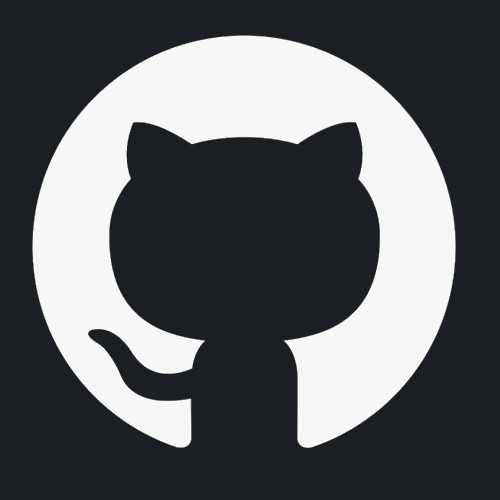
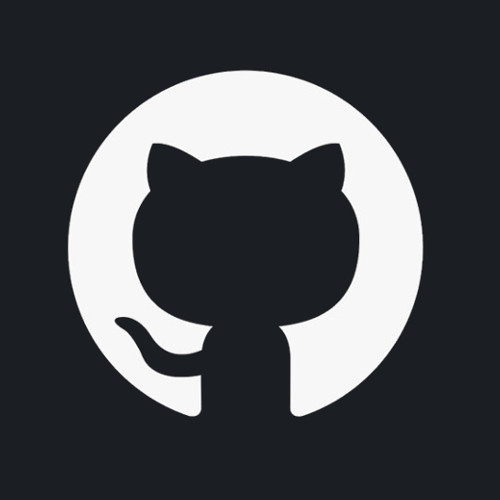
added contactCube interactivity

Changed region(s): [[0.06, 0.06, 0.93, 0.9]]

diff --git a/3d.js b/3d.js
@@ -13,7 +13,7 @@ var h = window.innerHeight;
 //---CAMERA---
 const scene = new THREE.Scene();
 const camera = new THREE.PerspectiveCamera(
-	40, //Field of View
+	30, //Field of View
 	(w)/ (h), //Aspect Ratio
 	0.1,  //Inner Frustum
 	1000 //Outter Frustum
@@ -24,10 +24,12 @@ const camera = new THREE.PerspectiveCamera(
 const renderer = new THREE.WebGLRenderer();
 renderer.setSize(w, h);
 container.appendChild( renderer.domElement );
-camera.position.z = 15;
+camera.position.z = 20;
 
+/*
 var controls = new OrbitControls(camera, renderer.domElement);	
 controls.update();
+*/
 
 var light = new THREE.AmbientLight( 0xDDDDDD );
 scene.add(light)
@@ -37,13 +39,14 @@ scene.add(light)
 /*--------ASYNCRONOUS EXTERNAL LOADING --------*/
 
 async function externalLoads(){
-   await loadTextures();
    await loadHDRI();
+   await loadTextures();
    await loadModels();
 }
 
 //----LOAD TEXTURES----
-var liImgC, ghImgC, asImgC, igImgC, metalRoughness, robotC, robotR;
+var liImgC, liImg, ghImgC, ghImg, asImgC, asImg, igImgC, igImg, metalRoughness, 
+   robotC, robotR;
 function loadTextures(){
    const textureLoader = new THREE.TextureLoader();
    robotC = textureLoader.load("./models/robot2.png");
@@ -52,12 +55,20 @@ function loadTextures(){
    robotR.flipY = false;
    liImgC = textureLoader.load("./models/linkedinc.jpg");
    liImgC.flipY = false;
+   liImg = textureLoader.load("./models/linkedin.jpg");
+   liImg.flipY = false;
 	ghImgC = textureLoader.load("./models/githubc.jpg");
    ghImgC.flipY = false;
+   ghImg = textureLoader.load("./models/github.jpg");
+   ghImg.flipY = false;
    asImgC = textureLoader.load("./models/artstationc.jpg");
    asImgC.flipY = false;
+   asImg = textureLoader.load("./models/artstation.jpg");
+   asImg.flipY = false;
 	igImgC = textureLoader.load("./models/intagramc.jpg");
    igImgC.flipY = false;
+   igImg = textureLoader.load("./models/instagram.jpg");
+   igImg.flipY = false;
    metalRoughness = textureLoader.load("./models/roughnessMetal.jpg");
 }
 
@@ -132,11 +143,12 @@ function loadModels(){
          })
          cube.material = cubeMat;
          cube.scale.set(size, size, size);
-         const z = cube.position.z;
-         const y = -4.2;
+         const z = cube.position.z = 1;
+         const y = -4;
 
          //attributes for each cube
          cubeLi = cube.clone();
+         cubeLi.name = "cubeLi"
          cubeLi.material = cubeMat.clone()
          cubeLi.material.map = liImgC;
          console.log(cubeLi.material)
@@ -144,18 +156,21 @@ function loadModels(){
          scene.add(cubeLi)
          
          cubeGh = cube.clone();
+         cubeGh.name = "cubeGh"
          cubeGh.material = cubeMat.clone()
          cubeGh.material.map = ghImgC;
          cubeGh.position.set(-.65 - ((w-300)/2000), y , z)
          scene.add(cubeGh)
          
          cubeAs = cube.clone();
+         cubeAs.name = "cubeAs"
          cubeAs.material = cubeMat.clone()
          cubeAs.material.map = asImgC;
          cubeAs.position.set(.65 + ((w-300)/2000), y , z)
          scene.add(cubeAs)
          
          cubeIg = cube.clone()
+         cubeIg.name = "cubeIg"
          cubeIg.material = cubeMat.clone()
          cubeIg.material.map = igImgC;
          cubeIg.position.set(2 + ((w-300)/800), y , z)
@@ -163,16 +178,18 @@ function loadModels(){
          
          cubesLoaded = true;
       });
-
-   //plane
+   
+   //
+   
    new GLTFLoader()
       .load("./models/plane.glb",
       function ( gltf ) {
          plane = gltf.scene.children[0]
+         plane.position.y += 2.5;
          scene.add(plane)
          planeLoaded = true;
       });
-
+     
    //background
    new GLTFLoader()
       .load("./models/scene.glb",
@@ -184,13 +201,49 @@ externalLoads();
 
 /*-------- EVENTS AND INTERACTIONS --------*/
 
-//-----track mouse from center
+//---track mouse from center and normalized---
 var mouseX = 0;
 var mouseY = 0;
+var mouseNormal = new THREE.Vector2();
 container.addEventListener("mousemove", function(e){
    mouseX = (e.clientX - (w/2)) / w;
    mouseY = (e.clientY - (h/2)) / h;
+   mouseNormal.x = ( e.clientX / w ) * 2 - 1;
+   mouseNormal.y = - ( e.clientY / h ) * 2 + 1;
 })
+
+//---raycasting for selection---
+var ray = new THREE.Raycaster();
+var highlighted = false;
+
+//---highlightAction---
+function highlightAction(obj, img, inverted, link){
+   if(!highlighted){
+      obj.material.map = img;
+      highlighted = true;
+      document.body.style.cursor = "pointer";
+   }
+   if(inverted){
+      obj.rotation.y += 0.025;  
+   }else{
+      obj.rotation.y -= 0.025;  
+   } 
+}
+
+function resethighlight(){
+   if(highlighted){
+      cubeLi.material.map = liImgC;
+      cubeGh.material.map = ghImgC;
+      cubeAs.material.map = asImgC;
+      cubeIg.material.map = igImgC;
+      cubeLi.rotation.y = 0;
+      cubeGh.rotation.y = 0;
+      cubeAs.rotation.y = 0;
+      cubeIg.rotation.y = 0;
+      document.body.style.cursor = "default";
+      highlighted = false;
+   }  
+}
 
 
 
@@ -210,6 +263,35 @@ function animate(){
          plane.position.z = 0
       }  
    }
+   //raycaster
+   ray.setFromCamera( mouseNormal, camera);
+   var intersect = ray.intersectObject(scene);
+   if (intersect.length > 0) {
+      var obj = intersect[0].object
+      switch(obj.name){
+         case "Plane":
+            resethighlight()
+            break;
+         case "Plane006":
+            resethighlight();
+            break;
+         case "cubeLi":
+            highlightAction(obj, liImg, true)
+            break;
+         case "cubeGh":
+            highlightAction(obj, ghImg, true)
+            break;
+         case "cubeAs":
+            highlightAction(obj, asImg, false)
+            break;
+         case "cubeIg":
+            highlightAction(obj, igImg, false)
+            break;
+
+      }
+   }
+   //console.log(intersect);
+
    requestAnimationFrame(animate);
 	renderer.render(scene, camera);
 }
